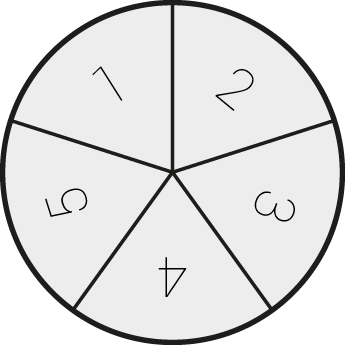
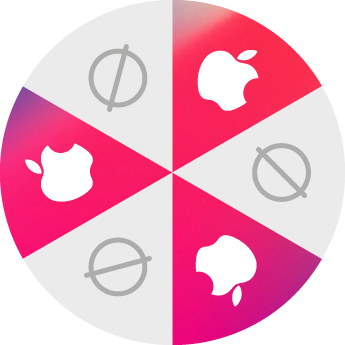
code finished

diff --git a/index.html b/index.html
@@ -8,10 +8,15 @@
     <title>Ruleta</title>
 </head>
 <body>
-<input id="btn" type="button" value="Girar" onclick="firstWheel.startAnimation();" />
+<div align="center">
+    <input id="btn" type="button" value="Girar" onclick="firstWheel.startAnimation();"/>
+</div>
 <br/>
 <br/>
-<canvas id='canvas' height="400" width="400"></canvas>
+<div align="center">
+    <canvas id='canvas' height="400" width="400"></canvas>
+</div>
+
 </body>
 <script>
 
@@ -20,18 +25,20 @@
     });
 
     var firstWheel = new Winwheel({
+        'canvasId'     : 'canvas',
         'drawMode'     : 'image',    // drawMode must be set to image.
         'outerRadius': 170,
-        'numSegments'  : 5,          // The number of segments must be specified.
+        'numSegments'  : 6,          // The number of segments must be specified.
         'imageOverlay' : true,       // Set imageOverlay to true to display the overlay.
         'lineWidth'    : 4,          // Overlay uses wheel line width and stroke style so can set these
         'strokeStyle'  : 'red',       // as desired to change appearance of the overlay.
         'segments':[
-            {'text': '2' },
-            {'text': '3' },
-            {'text': '4' },
-            {'text': '5' },
-            {'text': '1' },
+            {'text': 'iPhoneX' },
+            {'text': 'Lo siento' },
+            {'text': 'iPhoneX' },
+            {'text': 'Lo siento' },
+            {'text': 'iPhoneX' },
+            {'text': 'lo siento' }
         ],
         'animation': {
             'type': 'spinToStop',
@@ -41,20 +48,9 @@
         }
     });
 
-    // Create new image object in memory.
-    var firstImg = new Image();
-
-    // Create callback to execute once the image has finished loading.
-    firstImg.onload = function()
-    {
-        firstWheel.wheelImage = firstImg;    // Make wheelImage equal the loaded image object.
-        firstWheel.draw();                   // Also call draw function to render the wheel.
-    }
-
-    // Set the image source, once complete this will trigger the onLoad callback (above).
-    firstImg.src = "assets/img/wheel_image.png";
 
     function Message() {
+
         var SegmentoSeleccionado = firstWheel.getIndicatedSegment();
         alert("Tu premio es un: " + SegmentoSeleccionado.text + "!");
         firstWheel.stopAnimation(false);
@@ -62,9 +58,26 @@
         firstWheel.draw();
         indicator();
     }
-    indicator();
+
+    // Create new image object in memory.
+    var firstImg = new Image();
+
+    // Create callback to execute once the image has finished loading.
+    firstImg.onload = function()
+    {
+        firstWheel.wheelImage = firstImg;    // Make wheelImage equal the loaded image object.
+        // Set the image source, once complete this will trigger the onLoad callback (above).
+        firstWheel.draw(); // Also call draw function to render the wheel.
+        indicator();
+    };
+
+    firstImg.src = "assets/img/wheel_image.png";
+
+
+    var ctx = firstWheel.ctx;
+
     function indicator() {
-        var ctx = firstWheel.ctx;
+        ctx.save();
         ctx.strokeStyle = 'navy';
         ctx.fillStyle = 'black';
         ctx.lineWidth = 2;
@@ -75,6 +88,13 @@
         ctx.lineTo(171, 0);
         ctx.stroke();
         ctx.fill();
+        ctx.restore();
+
+//        alert("indicator");
     }
+
+
+
+
 </script>
 </html>
